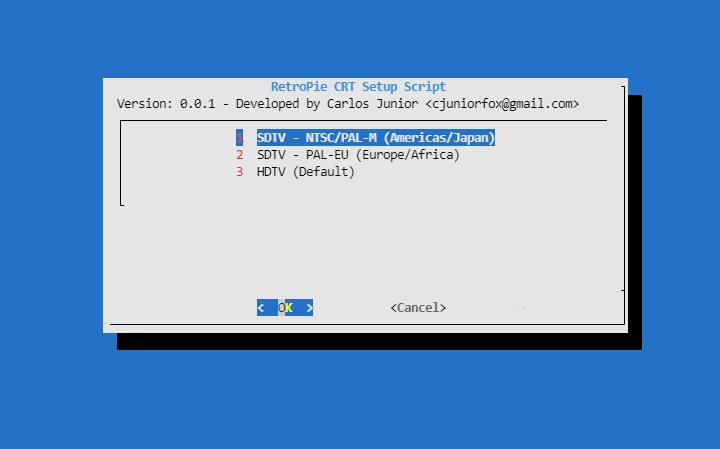
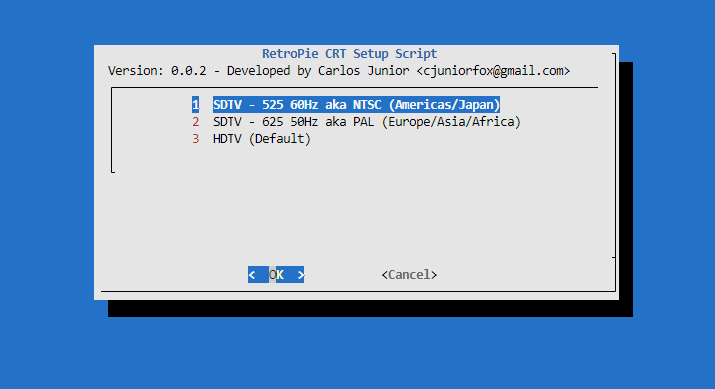
Some fix texting

Changed region(s): [[0.1231, 0.0925, 0.8923, 0.8329]]

diff --git a/configure.py b/configure.py
@@ -9,15 +9,15 @@ def print_celebrating(award):
     coloredaward = '\33[1;49;92m"%s"\33[0m' % award
     celebs=[\
         'The %s was installed.',
-        'Wow! The %s was installed successfully.',
-        'Conquered the installation of %s like a champ!',
-        'Impressed with myself installing the %s at so graceful way.',
-        'Other scripts might be jealous, because I installed %s wonderfully well.',
-        'Proud to say that the %s was installed successfully!',
-        'Happened to have installed the %s at so graceful way that was made me fells proud of myself.',
-        'Guess what! I made it again when I was installing the %s.',
-        'Don\'t worry. I made it again, I was successful when I was installing the %s.',
-        'I\'m in paradise, because I installed %s well.']
+        'The %s was installed successfully.',
+        'Installed the %s with success',
+        'The %s was installed gracefully',
+        'The %s was installed well.',
+        'The %s was proudly installed.',
+        'Proudly the %s was installed successfully.',
+        'Managed to install the %s ok.',
+        'The %s was installed with no worries.',
+        'Wonderful, the %s was installed.']
     print(celebs[random.randint(0,len(celebs) - 1)] % coloredaward)
 
 def hdmi_timings(platform):
@@ -30,7 +30,7 @@ def hdmi_timings(platform):
         data,_ = proc.communicate()
         return data.decode('utf-8').replace('hdmi_timings ','').replace('60.0','60').replace('50.0','50')
     except:
-        raise Exception("It's embarrassing to me, but I was unable to properly run '%s'. Sorry." %  cmd[0])
+        raise Exception("It's very embarrassing, but I was unable to properly run '%s'. Sorry." %  cmd[0])
 
 def write_new_file(lines,path,celebrating=True):
     try:
@@ -41,9 +41,9 @@ def write_new_file(lines,path,celebrating=True):
             print_celebrating(path)
     except PermissionError as e:
         if e.errno == 13:
-            raise PermissionError('I having a hard time with an annoying permission error trying to write the \33[1;49;31m"%s"\33[0m., witch it\'s very awkward, because I was supposed to be running as root and a root user does all he wants.' % path)
+            raise PermissionError('I\'m having a hard time with a permission error while trying to write the \33[1;49;31m"%s"\33[0m.' % path)
         else:
-            raise PermissionError('It\'s very strange, I having some permission error trying to write the file \33[1;49;31m"%s"\33[0m. for some kind I was unable to figure out witch one is. Checks out whats the exception had to say.\n%d - %s' % (path,e.errno,e.strerror))
+            raise PermissionError('I\'m having some permission error while trying to write the file \33[1;49;31m"%s"\33[0m and, I was unable to figure out which one is. Here\'s the exception:\n%d - %s' % (path,e.errno,e.strerror))
 
 def install_cfg(config,target_path):
     if isinstance(config,str): #Maybe orig it's the path of configuration file
@@ -52,7 +52,7 @@ def install_cfg(config,target_path):
     elif isinstance(config,list): #Or maybe it's the data itself inside a list
             new_config = config
     else:
-        raise Exception("Well, it's awkward, but feels like there's some scripting error because the kind of \"orig\" field isn't right accordingly with I expected. Sorry.\nAnyway, bye for now...")
+        raise Exception("Well, it's awkward, but feels like there's some scripting error because the kind of \"orig\" field isn't right accordingly with I expected. Sorry.")
     #This outputs something like (properties1|properties2|properties)
     properties = "(%s)" % "|".join(w.split("=")[0] for w in new_config)
     #Now, its time to load the target file. But this time, just matter of read the path at destination variable and load the content into array, but excluding the options who should be updated
@@ -115,13 +115,13 @@ def install_scripts(scripts, origin_path, dest_path):
             orig = os.path.join(origin_path,script[0])
             dest = os.path.join(dest_path,script[1])
         else:
-            raise Exception('There\'s some error on script.')
+            raise Exception('There\'s some error in the script.')
         try:
             shutil.copyfile(orig,dest)
             os.chmod(dest,0o0755)
             print_celebrating(dest)
         except:
-            raise Exception('So sad! I failed miserably installing \33[1;49;31m"%s"\33[0m.\nSorry to dissapointing you!\nBye for now...' % orig)
+            raise Exception('So sad! I failed miserably installing \33[1;49;31m"%s"\33[0m.\nSorry to disappointing you!' % orig)
     print_celebrating(" , ".join(r'%s' % w[0] if isinstance(w,list) else w for w in scripts))
 
 def uninstall_scripts():
@@ -179,7 +179,7 @@ def get_platform_parameters(platform):
             scandata = json.loads(jsondata)
             return (str(scandata['x_resolution']),str(scandata['y_resolution']),str(scandata['vertical']['fps']))
     except:
-        raise Exception("Unfortunely I was unable properly to obtain parameters for the platform " + platform)
+        raise Exception("Unfortunately I was unable to properly obtain the parameters for the platform " + platform)
 
 def define_consoledisp_config(origin_cfg_path,platform):
     x,y,fps = get_platform_parameters(platform)
@@ -216,13 +216,13 @@ def install_retroarch_core_options(install = True):
         uninstall_cfg(config_path,target_path)
 
 def install():
-    print("Welcome to installation script. I'll be you host during this process. So, sit down, make a cup of tea and relax during the entire process.\n")
+    print("Welcome to the setup script. I'll be your host during this process. Sit down, make a cup of coffee and relax during the installation.\n")
     install_chvideo_consoledisp()
     install_boot_cfg()
     install_runcommand()
     install_retroarch_cfg()
     install_retroarch_core_options()
-    print("\nI finalized all steps needed to configure your Raspberry for working with CRT displays over HDMI. It's recommended turn off you Raspberry and plug then at your CRT display. Enjoy your emulator like you're playining at the original hardware.\n That's all. See ya")
+    print("\nI just finished all the needed steps to configure your Raspberry for working with CRT displays over HDMI. It's recommended turn off your Raspberry and plug then into the CRT display. Enjoy your emulator like you're playing at the original hardware.\n That's all. See ya.\n That's all. See ya")
 
 def uninstall():
     print("Starting the uninstallation process.")
@@ -230,16 +230,16 @@ def uninstall():
     install_retroarch_cfg(False)
     uninstall_boot_cfg()
     uninstall_scripts()
-    print("All settings were removed and your HDMI output it's now back to default settings. It's higly recommended turn off your Raspberry and disconnect it from your CRT display with risk of harm the deflection circuitry of your television set or monitor if you don't.")
+    print("All settings were removed and your HDMI output it's now back to the default settings. It's highly recommended to turn off your Raspberry and disconnect it from the CRT display, with a risk of harming the set's deflection circuitry if you don't.")
 
-parser = argparse.ArgumentParser(description="Setup the retropie-crt to made it work with some cheap chinese HDMI to YBpBr adapter")
-parser.add_argument("--pal","-P",action='store_true',help="Apply PAL settings")
-parser.add_argument("--uninstall",'-u', action='store_true',help="Uninstalls the settings rolling back the output default HDMI behavior")
+parser = argparse.ArgumentParser(description="Set up the retropie-crt to make it work with some cheap Chinese HDMI to YPbPr adapter")
+parser.add_argument("--pal","-P",action='store_true',help="Apply the 625 50i (aka PAL) settings")
+parser.add_argument("--uninstall",'-u', action='store_true',help="Uninstalls all the settings, rolling back the output to default HDMI behaviour")
 args = parser.parse_args()
 isPal = args.pal
 
 if os.geteuid() != 0:
-    raise PermissionError('Excuse-me, but this script must be run under root privileges.\nI appreciate if try again using \'sudo\'.\nBye for now...')
+    raise PermissionError('Excuse me, but this script must be run under root privileges.\nI appreciates it if try again using the \'sudo\' command.')
 resources = os.path.join(os.getcwd(),'resources')
 if args.uninstall:
     uninstall()

diff --git a/resources/usr/bin/chvideo.py b/resources/usr/bin/chvideo.py
@@ -191,7 +191,7 @@ parser = argparse.ArgumentParser(description="Switch the HDMI output resolution 
 parser.add_argument("--width","-w", metavar = '720',type=int, help = "Width resolution value",default=720)
 parser.add_argument("--frequency","-f", metavar= '59.97',type=float, help = "Refresh rate",default=0)
 parser.add_argument("--progressive","-p",action='store_true', help="Progressive 240p/288p",default=False)
-parser.add_argument("--pal","-P",action='store_true', help="PAL format", default=False)
+parser.add_argument("--pal","-P",action='store_true', help="625 50hz aka PAL format", default=False)
 parser.add_argument("--overscan-left","-L",metavar="0",type=int,help="Overscan left",default=0)
 parser.add_argument("--overscan-right","-R",metavar="0",type=int,help="Overscan right",default=0)
 parser.add_argument("--overscan-top","-T",metavar="0",type=int,help="Overscan top",default=0)

diff --git a/resources/usr/bin/consoledisp.py b/resources/usr/bin/consoledisp.py
@@ -5,7 +5,7 @@ import subprocess
 
 parser = argparse.ArgumentParser(description="Apply settings for desired game console")
 parser.add_argument("console",help="Desired game consol")
-parser.add_argument("--pal","-P",action='store_true',help="Apply PAL settings")
+parser.add_argument("--pal","-P",action='store_true',help="Apply 625 50Hz aka PAL settings")
 parser.add_argument("--info","-i",action='store_true',help="Only print without applyng any change")
 parser.add_argument("--verbose","-v",action='store_true',help="Detailed information")
 parser.add_argument("--json","-j",action='store_true',help="Output detailed data as JSON")

diff --git a/README.md b/README.md
@@ -1,58 +1,55 @@
 # retropie-crt
-Some scripting to enable retropie to run as 240p with some HDMI to analog adapter
-
+This project enables Raspberry Pi with Retropie to work outputting with the proper resolution, scanline configuration (progressive or interlaced) and proper pixel aspect ratio, enabling displaying to CRT display as the intended emulated game console and outputting with interlaced resolution when at the Emulationstation.
 ## Disclaimer
 
-The Raspberry Pi it's an amazing device highled customizable, and the HDMI output it's one the customizable things.
-Bundled with raspbian, the basis distribuition of retropie, it have one tool called "vcgencmd" allowing setup various parameters related to display output. The detailed tecnical things like pixel clock and sync pulse.
-The scripting at this repository was built to drive the vcgemcmd tool switching the HDMI output mathing it to the closest settings for the original emulated video game console. The mode it's switched over the fly. Meaning when you're navegating over the emulationstation options, the contend will be displayerd at 480i. Now, when you run some game, the device switchs the output matching to the target platform specs.
-What's mean, it's if you would play SNES, the display output will switch on the fly to 256x224 or 512x240. The pixel aspect ratio setting also it's changed to match the target platform. Whitout shimmering. 
+The Raspberry Pi it's an amazing device highly customizable, and the HDMI output it's one of the customizable things.
+Bundled with raspbian, the basis of the Retropie distribution, it haves a tool called "vcgencmd" allowing setting up various parameters related to display output. The detailed technical specs like pixel clock and sync pulse parameters can be customizable with that tool.
+This scripting was built to drive the "vcgemcmd" tool switching the HDMI output to match it at the closest settings for the original emulated platform as possible. The mode it's switched on the fly. Meaning that when you're browsing over the Emulationstation, the display settings will be optimized for that content, while switching the display mode for the target emulated platform when the emulation starts.
+That means, if you're emulating SNES, the display output will output as the desired settings for outputting the 256x224 or 512x240 with the proper aspect ratio, scanline mode and refresh rate. 
 
-With just an single cheap HDMI to component video converter, you'll be able run your Raspberry at CRT television set, PVM monitor or any display device with component video input to run emulated platforms at CRT closest possible as the target's original hardware behavior.
+I tested with a cheap Chinese HDMI to YPbPr converter brought from Aliexpress. I believe that other converters, like HDMI to VGA or HDMI to SCART will also work as well. Be aware that if you're wanting to use an HDMI to VGA adapter for outputting to a CRT VGA Display, the intended display must be capable of handling the 15Khz signal. In a near future, I can manage to add the 31Khz support. But currently, it's not supported.
 
-It's not tested yet, but may be possible to use with HDMI to VGA adapter or with HDMI to SCART adapter, far as that adapter doesn't do any video processing at all.
-
-The set os scripting it's composed of two major tools "chvideo.py" and "consoledisp.py".
+The set of scripting basically it's composed of two python scripts. The "chvideo.py" and "consoledisp.py".
 
 ### chvideo.py
 
-This Python script drives the "vcgencmd" to outputs the SDTV accordingly with the desired specs, like horizontal resolution, scanning type and blanking interval. It makes the whole calculation needed to make this possible.
+This script drives the "vcgencmd" for outputting the desired video mode accordingly with the desired specs, like horizontal resolution, scanline mode and refresh rate. It does the calculation needed for the intended video settings.
 
 ### consoledisp.py
 
-This one takes care to manage all customizable settings for the video game console or home computing emulated at the Raspberry PI. It drives the chvideo to switch the display mode.
+This one has all the intended modes and manages the customizable settings for the target platform emulated. Driving the "chvideo" script.
 
 ## Requiriments
 
-. Raspberry PI (Any model compatible with Retropie).
-. Retropie built flashed into Pi's SDCard.
-. HDMI to component video or HDMI to VGA converter. Aaware it needs to be simple converter without any video processing at all. Just search for "HDMI to Component" or "HDMI to VGA"  from any online chinese marketplace.
+. A Raspberry Pi. Tested at the Raspberry Pi 3. Far as the "vcgemcmd" tool exists, it should work.
+. Retropie.
+. An HDMI to analog display signal converter. Be aware that it needs to be a simple converter without any video processing. Just search for "HDMI to YPbPr" or "HDMI to VGA"  in any online Chinese store.
 ![HDMI to Component Adapter](hdmi_to_component.png)
 ## Initial setup
 
 . Enable the SSH at raspi-config as [described here](https://retropie.org.uk/docs/SSH/).
-. From the same network and from any command line tool like Terminal or CMD, copy and paste the commands below.
+. From the same network and any command-line tool like Terminal or CMD, copy and paste the commands below.
 > ssh pi@retropie 'bash <(curl -s https://raw.githubusercontent.com/cjuniorfox/retropie-crt/main/setup.sh)'
-. Type Raspberry's password if asked. The default password normally is 'raspberry'.
-. The automated tool will install all the files needed to switch between HDTV and SDTV modes from the Retropie menu option named  'RETROPIE-CRT'.
-. Your device will restart automatically. After that, you're ready to configure your Raspberry to work with your CRT Display.
+. Type the Raspberry's password if asked. The default password generally it's 'raspberry'.
+. The automated tool will install all the files needed. Then finishes, a new option will be available from the Emulationstation's Retropie option menu called 'RETROPIE-CRT'.It isn't, will be needed to restart the Emulationstation.
+. A new option will be available from the Emulationstation's Retropie option menu called 'RETROPIE-CRT'. To enable the CRT display settings, go to that option and enable the desired display mode between 625 50Hz (aka PAL), 525 60Hz (aka NTSC) or switch back to HDMI mode choosing HDTV.
 
-Attention: Don't plug in the Raspberry into the CRT display before applying the configuration with risk of harming the television's deflection circuitry if you do so.
+Important: Don't plug the Raspberry into the CRT display before applying the configuration unless knowing if your set it's capable to handle HDTV signals, with the risk of harming the set deflection circuitry if you do so.
 
-## Configuring the CRT Television mode.
+## Configuring the CRT Television modes.
 
-The configuration it's very easy and straightfoward. If it's the first time you be running the configuration, folow this step with Raspberry still conected to your HDTV. 
+At the first setup, keep your Raspberry connected to an HDTV-capable display over the HDMI and follow the steps below.
 
-.Using the gamepad, navegate to the Retropie Menu and then, you'll found an new option named "RETROPIE-CRT".
-.Open that option and one menu will shown as below.
+.With the gamepad, navigate to the Retropie Menu and then, choose "RETROPIE-CRT" options menu.
 ![Retropie-CRT menu](main_menu.png)
 
 Choose the most appropriate option for your needs. You have three options.
 
-- SDTV - NTSC/PAL-M - It's the most common option to play most of systems as if you're running at an American or Japan television set.
-- SDTV - PAL-EU - Enables the PAL mode, to run at 50 Hz at European television set.
-- HDTV - Unsets the the whole configuration to make the HDMI output back to default HDMI setting. Be aware this option does not uninstall the tool itself, just switch back the configuration to get back te original behavior of Raspberry's HDMI output. When this mode is set , does not plug your Raspberry PI to CRT television set, with risk of damaging the deflection circuitry if you do so.
+- SDTV - 525 60Hz aka NTSC (Americas/Japan) - It's the common option to play most of the systems as if you're emulating an American or Japanese set.
+- SDTV - 625 50Hz aka PAL (Europe/Asia/Africa) - Enables the PAL mode, to run at 50 Hz sets.
+- HDTV - Unsets the whole configuration and makes the HDMI behave as default. Be aware this option does not uninstall the tool itself but just switches back the configuration of Raspberry's HDMI output.
 
 # CHANGELOG
 
+- Fixes some texting
 - Added minimal support for users with composite video mode.
